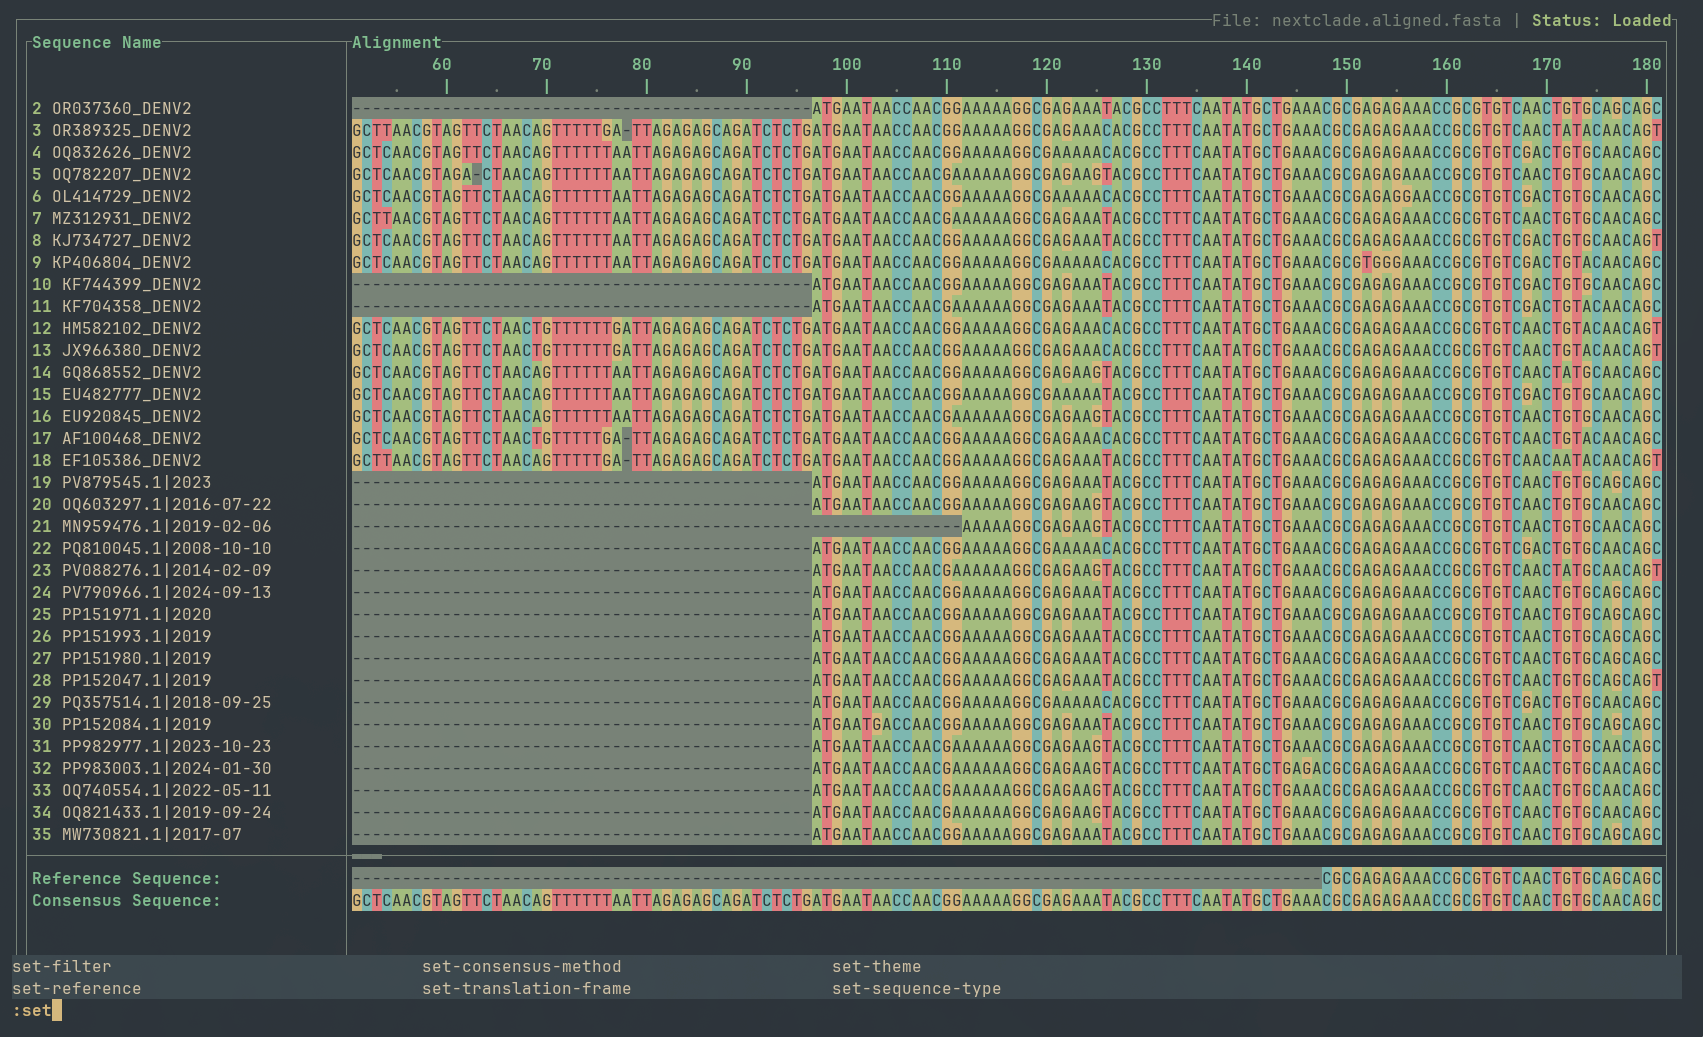
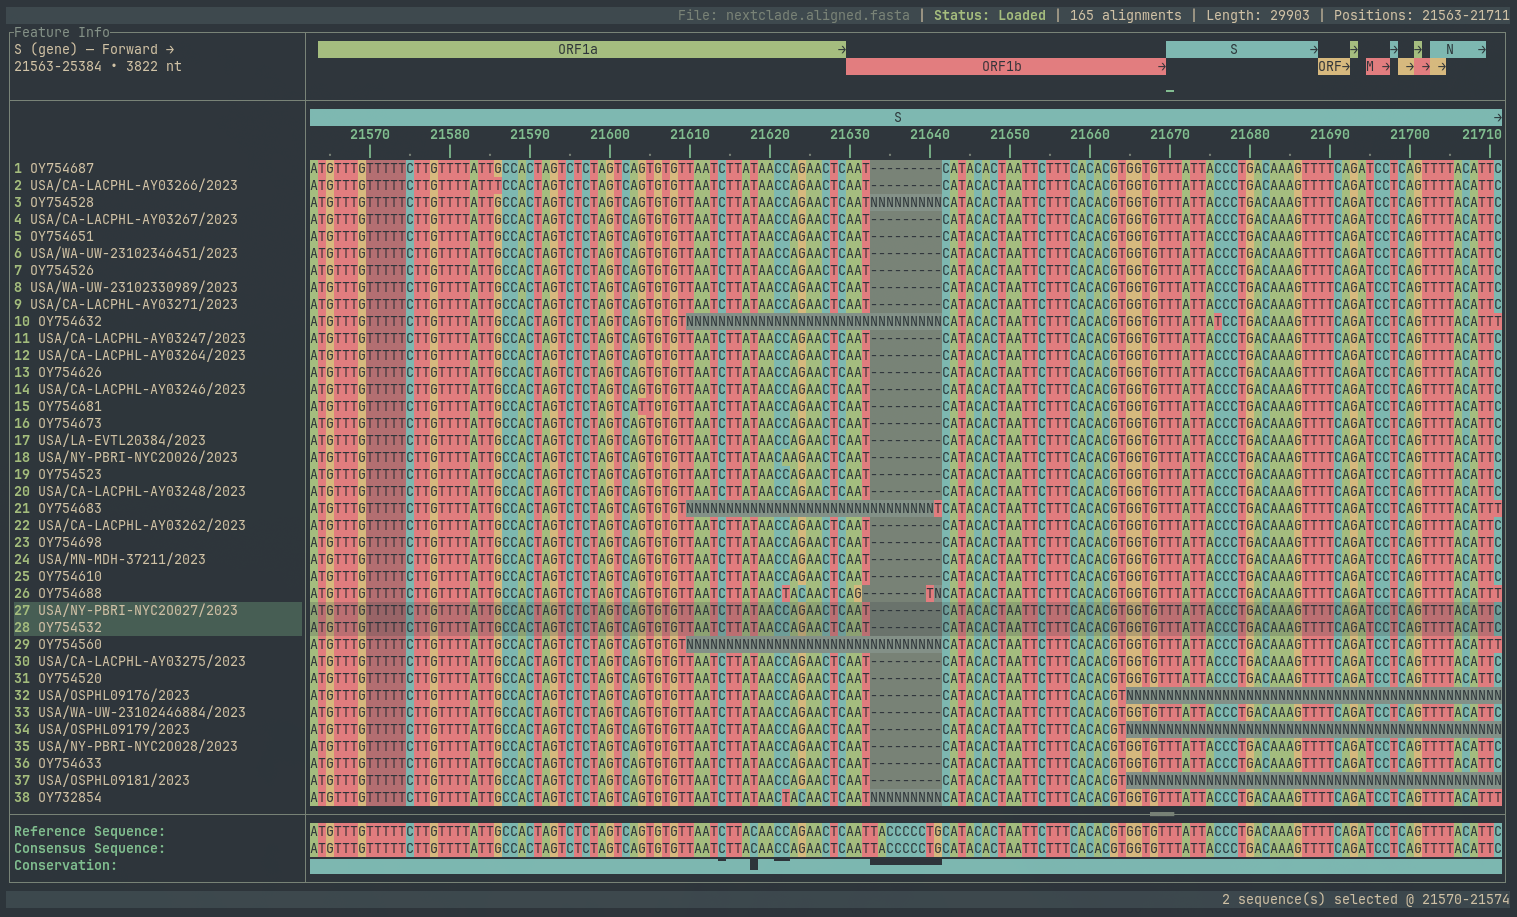
Updates

diff --git a/index.html b/index.html
@@ -4,7 +4,7 @@
     <meta charset="UTF-8" />
     <meta name="viewport" content="width=device-width, initial-scale=1.0" />
     <title>awesome-genome-visualization</title>
-    <script type="module" crossorigin src="./assets/index-BH9Wh5by.js"></script>
+    <script type="module" crossorigin src="./assets/index-QCEiJY4b.js"></script>
     <link rel="stylesheet" crossorigin href="./assets/index-D0aNs91n.css">
   </head>
   <body>